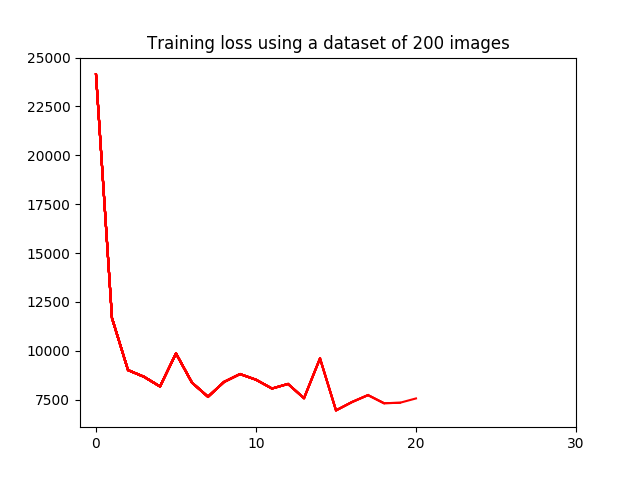
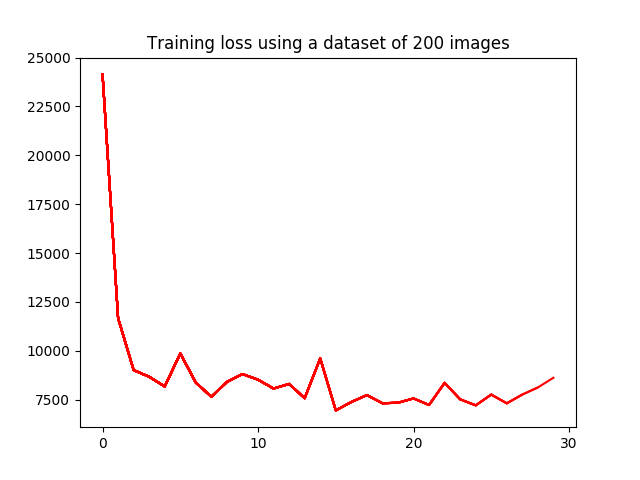
More transform functions added

diff --git a/training.py b/training.py
@@ -8,7 +8,7 @@ import matplotlib.pyplot as plt
 from PIL import Image
 from Dataset.MattingDataset import MattingDataset
 from model import EncoderDecoderNet, RefinementNet
-from dataset_transforms import RandomTrimapCrop, Resize, ToTensor
+from dataset_transforms import RandomTrimapCrop, Resize, ToTensor, RandomHorizontalFlip, RandomRotation, RandomVerticalFlip, RandomBlur
 from loss import alpha_prediction_loss, compositional_loss
 
 
@@ -45,21 +45,30 @@ _TRAIN_BACKGROUND_DIR_ = "./Dataset/Background/COCO_Images"
 _TRAIN_ALPHA_DIR_ = "./Dataset/Training_set/CombinedAlpha"
 _NETWORK_INPUT_ = (320,320)
 _COMPUTE_DEVICE_ = torch.device("cuda" if torch.cuda.is_available() else "cpu")
-_NUM_EPOCHS_ = 30 #200 #TODO: Remove
+_NUM_EPOCHS_ = 60 #200 #TODO: Remove
 _BATCH_SIZE_ = 8 #TODO: Increase this if using a GPU
 _NUM_WORKERS_ = multiprocessing.cpu_count()
 _LOSS_WEIGHT_ = 0.4 #0.5
 _GRADIENT_CLIP_ = 2.5
 
 tripleTransforms = transforms.Compose([
+    RandomRotation(probability=0.5, angle=180),
+    RandomVerticalFlip(probability=0.5),
+    RandomHorizontalFlip(probability=0.5),
     RandomTrimapCrop([(320, 320), (480, 480), (640, 640)], probability=0.7),
     Resize(_NETWORK_INPUT_),
     ToTensor()
 ])
 
+imageTransforms = transforms.Compose([
+    transforms.ColorJitter(brightness=0.5, contrast=0.5, saturation=0.5, hue=0.25),
+    transforms.RandomGrayscale(p=0.3),
+    RandomBlur(probability=0.1)
+])
+
 trainingDataset = MattingDataset(
                         _TRAIN_FOREGROUND_DIR_, _TRAIN_BACKGROUND_DIR_, _TRAIN_ALPHA_DIR_, 
-                        allTransform=tripleTransforms
+                        allTransform=tripleTransforms, imageTransforms=imageTransforms
                     )
 trainDataloader = torch.utils.data.DataLoader(
                             trainingDataset, batch_size=_BATCH_SIZE_, shuffle=True, num_workers=_NUM_WORKERS_, collate_fn=batch_collate_fn)
@@ -142,9 +151,11 @@ if __name__ == "__main__":
         plt.title(f"Training loss using a dataset of {len(trainingDataset)} images")
         plt.savefig(f"TrainLoss{len(trainingDataset)}Items.png")
 
+    trainingElapsed = time.time() - trainStart
+    print(f"\nTotal training time is {trainingElapsed//60:.0f}m {trainingElapsed%60:.0f}s")
     #Make a sample prediction
     idx = random.choice(range(0, len(trainingDataset)))
-    img_, trimap, gMasks = trainingDataset[0]
+    img_, trimap, gMasks = trainingDataset[idx]
     trimap = trimap.unsqueeze(0)
     gMasks = gMasks.unsqueeze(0)
     img = torch.cat([img_, trimap], 0).unsqueeze(0)

diff --git a/Dataset/MattingDataset.py b/Dataset/MattingDataset.py
@@ -8,7 +8,7 @@ import random
 from PIL import Image, ImageFilter, ImageChops
 
 class MattingDataset(data.Dataset):
-    def __init__(self, fgDir, bgDir, alphaDir, allTransform):
+    def __init__(self, fgDir, bgDir, alphaDir, allTransform, imageTransforms):
         self.fgDir = fgDir
         self.bgDir = bgDir
         self.alphaDir = alphaDir
@@ -16,10 +16,10 @@ class MattingDataset(data.Dataset):
         self.foregroundImageNames = os.listdir(self.fgDir)
         self.backgroundImageNames = os.listdir(self.bgDir)
         random.shuffle(self.backgroundImageNames) #TODO: Remove
-        self.backgroundImageNames = self.backgroundImageNames[:10] #TODO: Remove
+        self.backgroundImageNames = self.backgroundImageNames[:12] #TODO: Remove
         self.alphaImageNames = os.listdir(self.alphaDir)
         random.shuffle(self.alphaImageNames) #TODO: Remove
-        self.alphaImageNames = self.alphaImageNames[:20] #TODO:Remove
+        self.alphaImageNames = self.alphaImageNames[:22] #TODO:Remove
 
         self.numForeground = len(self.foregroundImageNames)
         self.numBackground = len(self.backgroundImageNames)
@@ -31,6 +31,7 @@ class MattingDataset(data.Dataset):
         self.imageBackgroundPair = sorted(self.imageBackgroundPair, key=lambda x: x[0])
 
         self.allTransform = allTransform
+        self.imageTransform = imageTransforms
 
         # assert len(self.imageBackgroundPair) == len(self) #TODO: Remove
 
@@ -50,6 +51,9 @@ class MattingDataset(data.Dataset):
         compositeImage = self.composite_image(foregroundImage, backgroundImage, alphaMask)
 
         assert compositeImage.size == trimap.size, f"composite size = {compositeImage.size} and trimap = {trimap.size} and foreground size = {foregroundImage.size}"
+
+        if self.imageTransform:
+            compositeImage = self.imageTransform(compositeImage)
         
         if self.allTransform:
             compositeImage, trimap, alphaMask = self.allTransform((compositeImage, trimap, alphaMask))

diff --git a/dataset_transforms.py b/dataset_transforms.py
@@ -2,8 +2,54 @@ import numpy as np
 import random
 import torch
 import torchvision.transforms.functional as TF
-from PIL import Image
+from PIL import Image, ImageFilter
 
+class RandomBlur(object):
+    def __init__(self, probability=0.5):
+        self.p = probability
+
+    def __call__(self, image):
+        if random.random() < self.p:
+            return image.filter(ImageFilter.GaussianBlur(radius=2))
+        return image
+
+class RandomRotation(object):
+    def __init__(self, probability=0.5, angle=45):
+        self.p = probability
+        self.angle = angle
+
+    def __call__(self, items):
+        image, trimap, mask = items
+        angle = random.randint(-self.angle, self.angle)
+        if random.random() < self.p:
+            image = TF.rotate(image, angle)
+            trimap = TF.rotate(trimap, angle)
+            mask = TF.rotate(mask, angle)
+        return image, trimap, mask
+
+class RandomVerticalFlip(object):
+    def __init__(self, probability=0.5):
+        self.p = probability
+
+    def __call__(self, items):
+        image, trimap, mask = items
+        if random.random() < self.p:
+            image = TF.vflip(image)
+            trimap = TF.vflip(trimap)
+            mask = TF.vflip(mask)
+        return image, trimap, mask
+
+class RandomHorizontalFlip(object):
+    def __init__(self, probability=0.5):
+        self.p = probability
+
+    def __call__(self, items):
+        image, trimap, mask = items
+        if random.random() < self.p:
+            image = TF.hflip(image)
+            trimap = TF.hflip(trimap)
+            mask = TF.hflip(mask)
+        return image, trimap, mask
 
 class ToTensor(object):
     def __call__(self, items):

diff --git a/model.py b/model.py
@@ -38,7 +38,6 @@ class EncoderDecoderNet(nn.Module):
         """
         x = self.encoder(x)
         x = self.decoder(x)
-
         return x
 
 
@@ -51,9 +50,13 @@ class Encoder(nn.Module):
         """
         self.encoderBlocks = nn.Sequential(
             convBatchNormReLU(4, 64, 3),
+            convBatchNormReLU(64, 64, 1, pad=0, stride=1),
             convBatchNormReLU(64, 128, 3),
+            convBatchNormReLU(128, 128, 1, pad=0, stride=1),
             convBatchNormReLU(128, 256, 3),
-            convBatchNormReLU(256, 512, 3)
+            convBatchNormReLU(256, 256, 1, pad=0, stride=1),
+            convBatchNormReLU(256, 512, 3),
+            convBatchNormReLU(512, 512, 1, pad=0, stride=1),
         )
 
     def forward(self, x):
